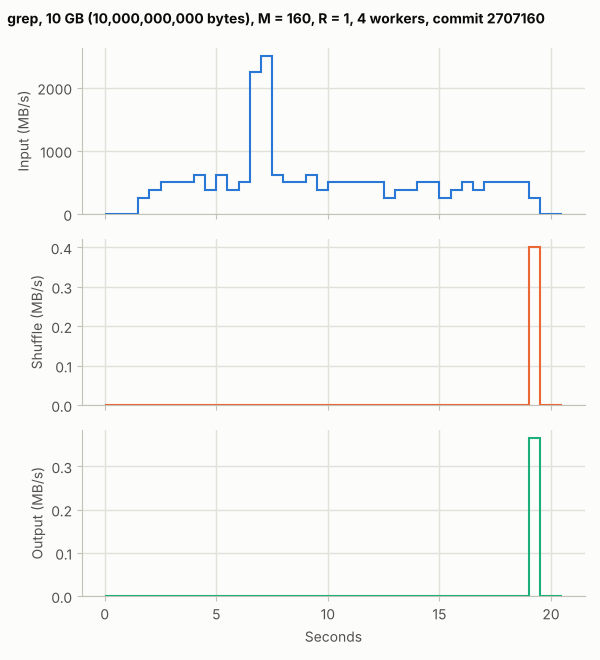
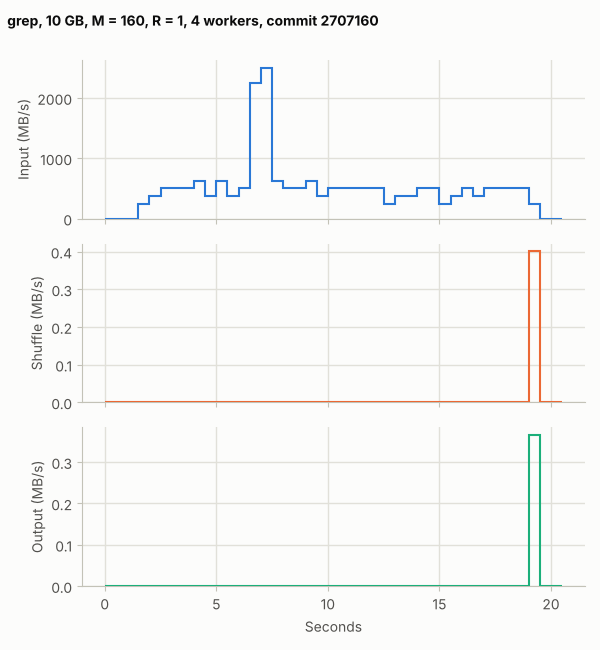
Take each E2 setting from its own source and wrap long rates titles
The E2 comparison now takes the no-straggler settings only from E2-pairs
and the straggler settings only from E2, and checks job shapes over the
valid runs it plots. A rates title wraps instead of running past the
figure, run.sh titles it with the measured input size, and the two
committed rates plots carry shorter titles that fit on one line.

diff --git a/bench/plot-rates.py b/bench/plot-rates.py
@@ -30,6 +30,7 @@ Usage: python3 bench/plot-rates.py SAMPLES.csv [OUT.png [TITLE]]
 
 import csv
 import sys
+import textwrap
 
 METRICS = {
     "input": "mr_worker_map_input_bytes_total",
@@ -83,9 +84,11 @@ def plot(seconds, series, path, title=None):
     matplotlib.use("Agg")
     import matplotlib.pyplot as plt
 
-    fig, axes = plt.subplots(
-        len(series), 1, sharex=True, figsize=(6, 6.6 if title else 6), facecolor=SURFACE
-    )
+    # A long title wraps instead of running past the figure's edge; each
+    # line adds height, so the panels keep their size.
+    lines = textwrap.wrap(title, 68) if title else []
+    height = 6 + (0.3 + 0.2 * len(lines) if lines else 0)
+    fig, axes = plt.subplots(len(series), 1, sharex=True, figsize=(6, height), facecolor=SURFACE)
     for ax, (rate, values) in zip(axes, series.items(), strict=True):
         ax.set_facecolor(SURFACE)
         # Each rate is an average over the interval between two rounds.
@@ -99,9 +102,19 @@ def plot(seconds, series, path, title=None):
             spine.set_visible(side in ("left", "bottom"))
             spine.set_color(AXIS)
     axes[-1].set_xlabel("Seconds", color=INK2)
-    if title:
-        fig.text(0.012, 0.985, title, ha="left", va="top", fontsize=10, weight="bold", color=INK)
-        fig.tight_layout(rect=(0, 0, 1, 0.95))
+    if lines:
+        fig.text(
+            0.012,
+            1 - 0.1 / height,
+            "\n".join(lines),
+            ha="left",
+            va="top",
+            fontsize=10,
+            weight="bold",
+            color=INK,
+            linespacing=1.4,
+        )
+        fig.tight_layout(rect=(0, 0, 1, 1 - (0.25 + 0.2 * len(lines)) / height))
     else:
         fig.tight_layout()
     fig.savefig(path, facecolor=SURFACE)

diff --git a/bench/plot-experiments.py b/bench/plot-experiments.py
@@ -575,12 +575,17 @@ def e2_comparison(pairs, rows, results, out, t):
         "straggler-backups": (1, False),
         "straggler-no-backups": (1, True),
     }
-    mixed = [dict(r, _dir="E2-pairs") for r in pairs if r["setting"] in settings] + [
-        dict(r, _dir="E2") for r in rows if r["setting"].startswith("straggler")
+    # Each setting comes only from its stated source, as the subtitle says.
+    mixed = [
+        dict(r, _dir="E2-pairs") for r in pairs if r["setting"] in ("normal", "normal-no-backups")
+    ] + [
+        dict(r, _dir="E2")
+        for r in rows
+        if r["setting"] in ("straggler-backups", "straggler-no-backups")
     ]
-    # The subtitle states one input size, M and R for both datasets, so they
-    # must have run the same job.
-    shapes = {(r["input_bytes"], r["m"], r["r"], r["workers"]) for r in mixed}
+    # The subtitle states one input size, M and R for both datasets, so the
+    # plotted runs must have run the same job.
+    shapes = {(r["input_bytes"], r["m"], r["r"], r["workers"]) for r in valid(mixed)}
     if len(shapes) > 1:
         raise ValueError(f"E2 and E2-pairs ran different jobs: {sorted(shapes)}")
     fig = timeline_and_bars(

diff --git a/python/tests/test_bench_experiments_plot.py b/python/tests/test_bench_experiments_plot.py
@@ -498,3 +498,20 @@ def test_e2_comparison_refuses_datasets_of_different_jobs(plotter, tmp_path):
     main = [row("straggler-backups") | {"run": "1", "event_at": "", "job": "job-1", "m": "64"}]
     with pytest.raises(ValueError, match="different jobs"):
         module.e2_comparison(pairs, main, tmp_path, tmp_path / "out.png", light(module))
+
+
+def test_e2_comparison_takes_each_setting_from_its_source_and_checks_valid_runs(plotter, tmp_path):
+    module, pyplot = plotter
+    left, right = Mock(), Mock()
+    right.barh.return_value = [Mock() for _ in range(4)]
+    pyplot.subplots.return_value = Mock(), (left, right)
+    base = {"run": "1", "event_at": "", "job": "job-1"}
+    pairs = [row("normal") | base, row("straggler-backups", seconds=99) | base]
+    # An invalid run of another job is never plotted, so it must not fail the check.
+    main = [
+        row("straggler-backups") | base,
+        row("straggler-no-backups", valid="0") | base | {"m": "64"},
+    ]
+    module.e2_comparison(pairs, main, tmp_path, tmp_path / "out.png", light(module))
+    times = right.barh.call_args.args[1]
+    assert 99 not in times
